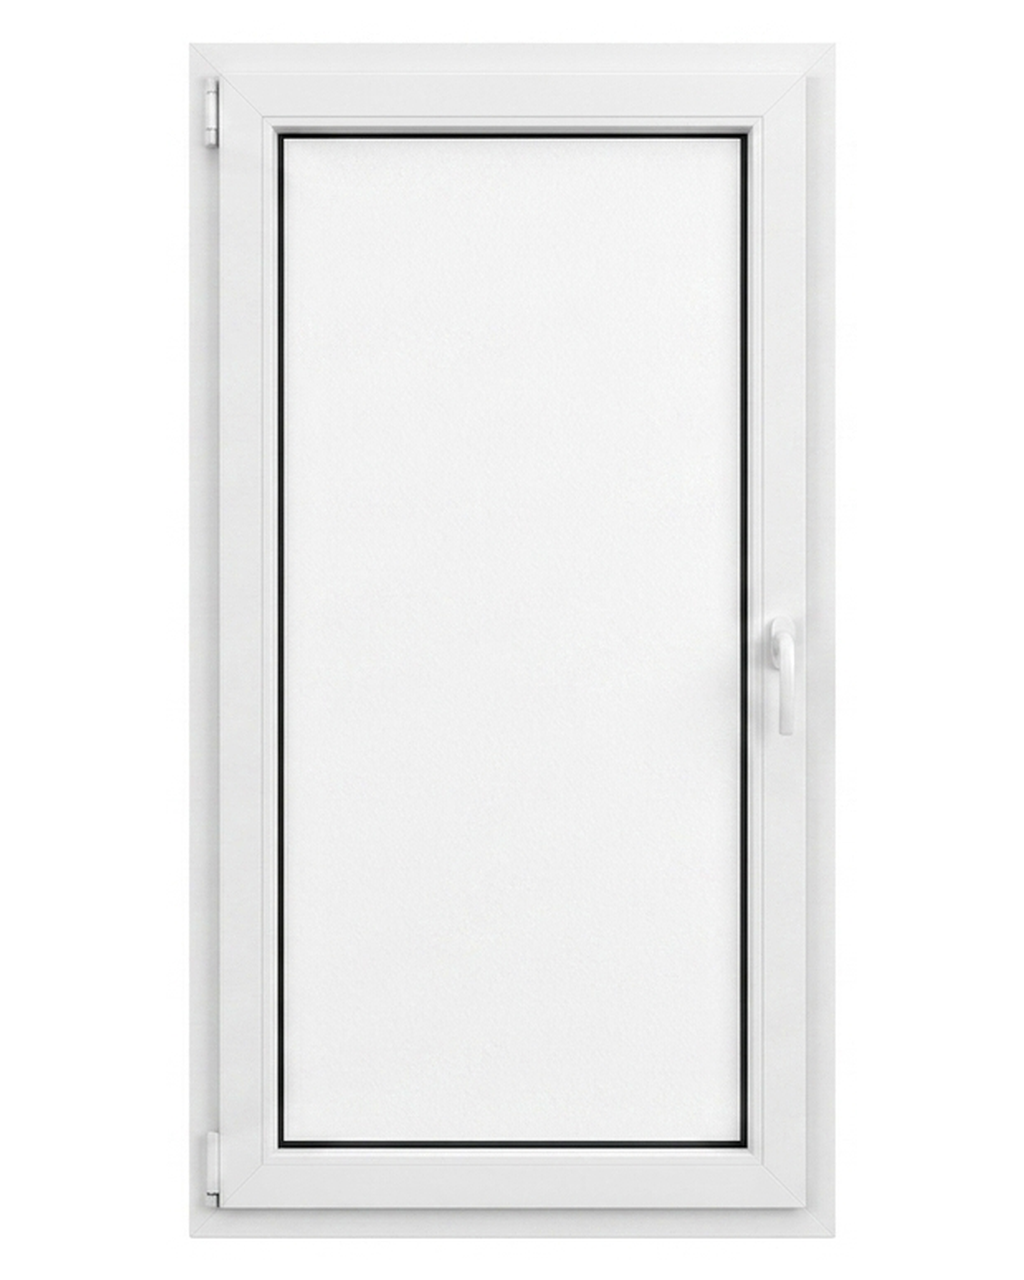
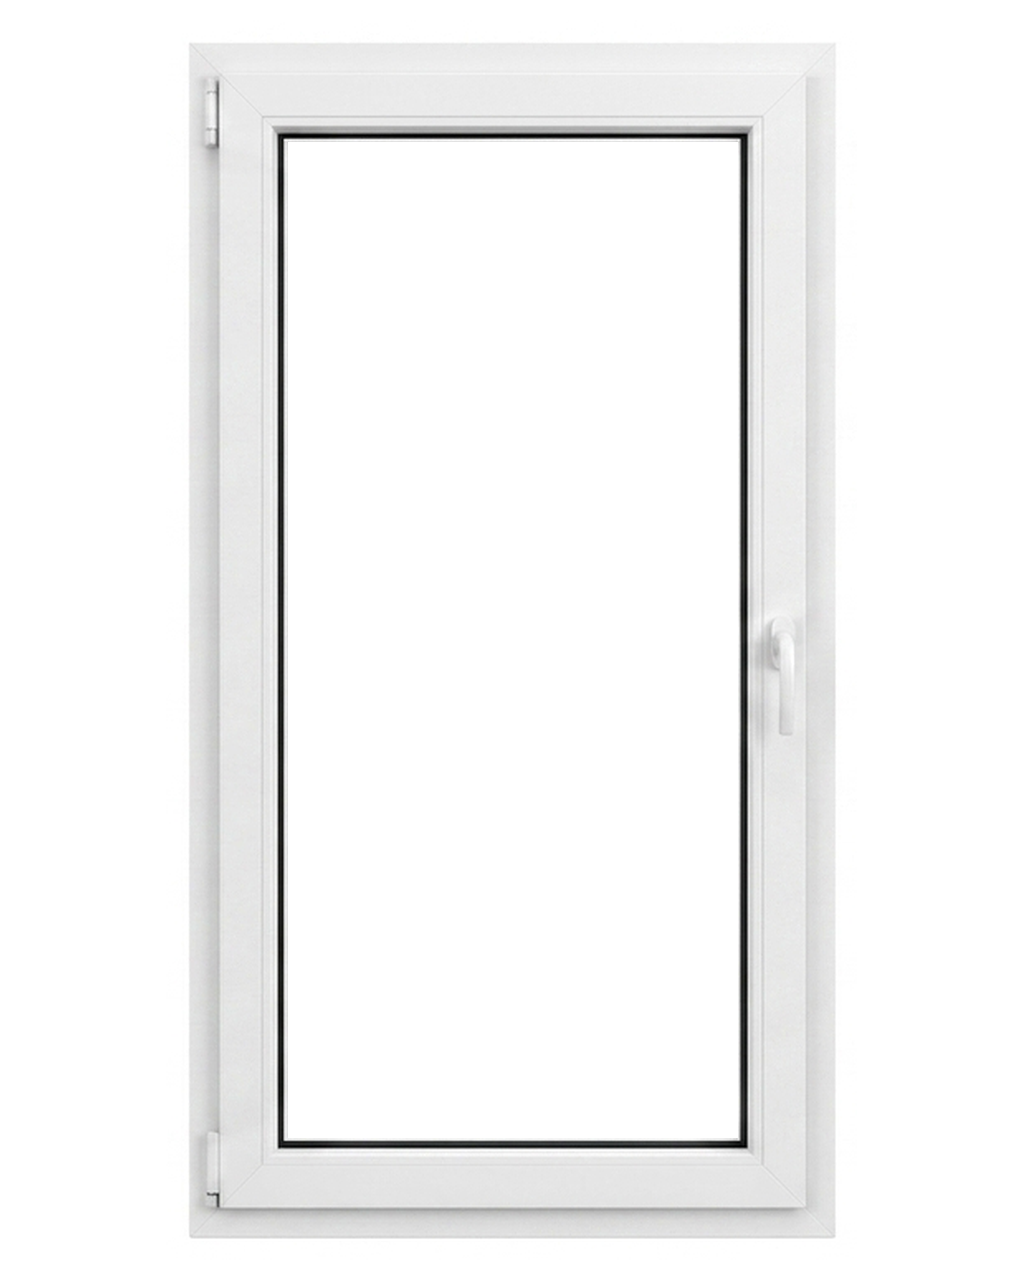
Konfigurator Produktbilder: Glasfarbe von Balkontuer + Schiebetuer auf einheitliches Reinweiss wie Kunststofffenster angeglichen (Glas war grau/kuehl-stichig); Cache-Bust (Kundenwunsch 09.06.2026)

Changed region(s): [[0.6875, 0.5, 0.7188, 0.875], [0.2812, 0.0938, 0.375, 0.125], [0.2812, 0.8125, 0.3125, 0.875]]

diff --git a/konfigurator-new.html b/konfigurator-new.html
@@ -13,9 +13,9 @@
   <meta property="og:type" content="website">
 
   <link rel="preload" as="image" href="img/fenster_standard_v3.png">
-  <link rel="preload" as="image" href="img/balkontuer_standard_v3.png?v=20260510">
+  <link rel="preload" as="image" href="img/balkontuer_standard_v3.png?v=20260609g">
   <link rel="preload" as="image" href="img/haustuer_iglo_energy_montana_weiss.png?v=20260506-5">
-  <link rel="preload" as="image" href="img/hst_standard.png">
+  <link rel="preload" as="image" href="img/hst_standard.png?v=20260609g">
   <link rel="stylesheet" href="css/tokens.css?v=2026-05-23"/>
   <link rel="stylesheet" href="css/components.css?v=2026-05-23"/>
   <link rel="stylesheet" href="css/tailwind.css?v=2026-05-22"/>
@@ -4215,6 +4215,11 @@ html body #sidebar-wrap #kfg-sum-block { display: none !important; }
   #cfg-wizard .hst-feat{list-style:none;margin:8px 0 4px;padding:0;text-align:left;display:inline-block}
   #cfg-wizard .hst-feat li{font-size:11.5px;color:#5a6b7e;font-family:'Manrope',sans-serif;line-height:1.55;padding-left:17px;position:relative}
   #cfg-wizard .hst-feat li::before{content:'✓';position:absolute;left:0;top:0;color:var(--c-primary);font-weight:800;font-size:10.5px}
+  #cfg-wizard .wiz-griff2col{display:flex;gap:28px;align-items:flex-start;max-width:1160px;margin:0 auto}
+  #cfg-wizard .wiz-griff2col .wiz-griffcol{flex:1;min-width:0}
+  #cfg-wizard .wiz-griff2col .wiz-gt{text-align:left;margin-bottom:10px}
+  #cfg-wizard .wiz-griff2col .wiz-cards{justify-content:flex-start}
+  @media(max-width:760px){ #cfg-wizard .wiz-griff2col{flex-direction:column;gap:20px} }
   #cfg-wizard .wiz-card-dis{opacity:.5;cursor:not-allowed}
   /* Foto-Karten (Glas-Motiv): Bild füllt die Box randlos */
   #cfg-wizard .wiz-card .wiz-vis{width:100%;aspect-ratio:1/1;border-radius:10px;overflow:hidden;background:#eef2f8;display:flex;align-items:center;justify-content:center}
@@ -4272,8 +4277,10 @@ html body #sidebar-wrap #kfg-sum-block { display: none !important; }
   #cfg-wizard .wiz-step button:hover{background:#eef3fb}
   #cfg-wizard .wiz-step .wiz-qv{font-size:44px;font-weight:800;color:#14233f;min-width:90px;text-align:center;font-family:'Plus Jakarta Sans',sans-serif}
   #cfg-wizard .wiz-navbar{position:fixed;left:0;right:0;bottom:0;z-index:30;background:#fff;border-top:1px solid rgba(34,94,170,.1);box-shadow:0 -4px 20px rgba(20,40,80,.05)}
-  #cfg-wizard .wiz-nav{display:flex;align-items:center;justify-content:space-between;gap:12px;max-width:1040px;margin:0 auto;width:100%;padding:14px 20px}
-  #cfg-wizard .wiz-nav-right{display:flex;gap:12px;align-items:center;flex-shrink:0}
+  #cfg-wizard .wiz-nav{display:grid;grid-template-columns:1fr auto 1fr;align-items:center;gap:12px;max-width:1040px;margin:0 auto;width:100%;padding:14px 20px}
+  #cfg-wizard .wiz-otherprod{justify-self:start}
+  #cfg-wizard .wiz-nav-right{display:flex;gap:12px;align-items:center;justify-self:center;flex-shrink:0}
+  @media (max-width:640px){ #cfg-wizard .wiz-nav{grid-template-columns:auto 1fr} }
   #cfg-wizard .wiz-back{padding:14px 24px;border-radius:999px;border:1px solid rgba(34,94,170,.25);background:#fff;font-weight:700;cursor:pointer;color:#14233f;font-family:'Plus Jakarta Sans',sans-serif}
   #cfg-wizard .wiz-otherprod{display:inline-flex;align-items:center;gap:6px;padding:14px 18px;border-radius:999px;border:1px solid rgba(34,94,170,.25);background:#fff;font-weight:700;cursor:pointer;color:#225eaa;font-family:'Plus Jakarta Sans',sans-serif;white-space:nowrap}
   #cfg-wizard .wiz-otherprod:hover{background:#eef4ff;border-color:rgba(118,169,250,.5)}
@@ -7152,9 +7159,14 @@ function wizRenderPsk(){ return '<div class="wiz-cards">'+Object.keys(P.pskKamme
 function wizSetPsk(v){ wizSet('pskKammer',v); }
 function wizRenderTuermodell(){ return '<div class="wiz-cards">'+WIZ_DOORS.map(function(d){return '<div class="wiz-card'+(d.key===S.tuerModell?' sel':'')+'" onclick="wizSet(\'tuerModell\',\''+d.key+'\')"><div class="wiz-gbox"><img src="'+d.img+'" alt="'+d.name+'" loading="lazy"></div><div class="wiz-cn">'+d.name+'</div></div>';}).join('')+'</div>'; }
 function wizRenderTuergriff(){
-  let h='<div class="wiz-group"><div class="wiz-gt">Innen (Klinke)</div><div class="wiz-cards">'+Object.keys(P.tuerGriffInnen).map(function(k){const o=P.tuerGriffInnen[k];return '<div class="wiz-card wiz-card-opt'+(k===S.tuerGriffInnen?' sel':'')+'" onclick="wizSet(\'tuerGriffInnen\',\''+k+'\')"><div class="wiz-sym"><img src="'+o.img+'" alt="'+o.name+'" loading="lazy"></div><div class="wiz-cn">'+o.name+'</div></div>';}).join('')+'</div></div>';
-  h+='<div class="wiz-group"><div class="wiz-gt">Außen (Griff)</div><div class="wiz-cards">'+Object.keys(P.tuerGriffAussen).map(function(k){const o=P.tuerGriffAussen[k];return '<div class="wiz-card wiz-card-opt'+(k===S.tuerGriffAussen?' sel':'')+'" onclick="wizSet(\'tuerGriffAussen\',\''+k+'\')"><div class="wiz-sym"><img src="'+o.img+'" alt="'+o.name+'" loading="lazy"></div><div class="wiz-cn">'+o.name+'</div></div>';}).join('')+'</div></div>';
-  return h;
+  // Innen + Außen nebeneinander (zwei Spalten), damit man beide Türgriffe auf einen Blick sieht
+  function griffCards(obj, sel, sk){
+    return Object.keys(obj).map(function(k){const o=obj[k];return '<div class="wiz-card wiz-card-opt'+(k===sel?' sel':'')+'" onclick="wizSet(\''+sk+'\',\''+k+'\')"><div class="wiz-sym"><img src="'+o.img+'" alt="'+o.name+'" loading="lazy"></div><div class="wiz-cn">'+o.name+'</div></div>';}).join('');
+  }
+  return '<div class="wiz-griff2col">'+
+    '<div class="wiz-griffcol"><div class="wiz-gt">Türgriff innen</div><div class="wiz-cards">'+griffCards(P.tuerGriffInnen,S.tuerGriffInnen,'tuerGriffInnen')+'</div></div>'+
+    '<div class="wiz-griffcol"><div class="wiz-gt">Türgriff außen</div><div class="wiz-cards">'+griffCards(P.tuerGriffAussen,S.tuerGriffAussen,'tuerGriffAussen')+'</div></div>'+
+  '</div>';
 }
 function wizRenderSchiebegriff(){
   let h='<div class="wiz-group"><div class="wiz-gt">Innen (Smart Slide)</div><div class="wiz-cards">'+Object.keys(P.hstGriff).map(function(k){const o=P.hstGriff[k];return '<div class="wiz-card wiz-card-opt'+(k===S.hstGriff?' sel':'')+'" onclick="wizSet(\'hstGriff\',\''+k+'\')"><div class="wiz-sym"><img src="'+o.img+'" alt="'+o.name+'" loading="lazy"></div><div class="wiz-cn">'+o.name+'</div></div>';}).join('')+'</div></div>';
@@ -11067,9 +11079,9 @@ function renderCart() {
 // PROD_IMGS bleibt für Code-Rückwärtskompatibilität (nur Innen-Default)
 const PROD_IMGS = {
   kunststoff: 'img/fenster_standard_v3.png',
-  balkontuer: 'img/balkontuer_standard_v3.png?v=20260510',
+  balkontuer: 'img/balkontuer_standard_v3.png?v=20260609g',
   haustuere:  'img/haustuer_iglo_energy_montana_innen_weiss.png?v=20260506-5', // Kunden-Update 06.05.2026: Iglo Energy Montana Innenansicht spiegelverkehrt — Klinke LINKS, 3 Scharniere RECHTS (DIN-Konsistenz mit Außen Stoßgriff rechts → Projektdoku Regel 5). Google-Flow generiert via Image-to-Image-Mirror, Pipeline. ?v= = Cache-Buster.
-  hst:        'img/hst_standard.png',
+  hst:        'img/hst_standard.png?v=20260609g',
 };
 
 // ════════════════════════════════════════════════════════════════
@@ -11115,7 +11127,7 @@ const PROD_IMGS_VIEW = {
     },
   },
   balkontuer: {
-    innen:  { '1-fluegel': 'img/balkontuer_standard_v3.png?v=20260510', '2-fluegel': 'img/balkontuer_2fl_v4.png' },
+    innen:  { '1-fluegel': 'img/balkontuer_standard_v3.png?v=20260609g', '2-fluegel': 'img/balkontuer_2fl_v4.png' },
     aussen: { '1-fluegel': 'img/balkontuer_aussen_v3.png?v=20260510', '2-fluegel': 'img/balkontuer_2fl_aussen_v4.png' },
   },
   haustuere: {
@@ -11128,7 +11140,7 @@ const PROD_IMGS_VIEW = {
     aussen: { '1-fluegel': 'img/haustuer_iglo_energy_montana_weiss.png?v=20260506-5' },
   },
   hst: {
-    innen:  { '1-fluegel': 'img/hst_standard.png' },
+    innen:  { '1-fluegel': 'img/hst_standard.png?v=20260609g' },
     aussen: { '1-fluegel': 'img/hst_aussen.png' },
   },
 };
@@ -11678,7 +11690,7 @@ const BILDER = {
   },
   balkontuer: {
     aussen: {1:'img/balkontuer_aussen_v3.png', 2:'img/fenster-2fluegel-aussen.png', 3:'img/fenster-aussen-3fluegel.png', 4:'img/fenster-aussen-4fluegel.png'},
-    innen:  {1:'img/balkontuer_standard_v3.png', 2:'img/fenster-2fluegel-innen.png',  3:'img/fenster-innen-3fluegel.png',  4:'img/fenster-innen-4fluegel.png'}
+    innen:  {1:'img/balkontuer_standard_v3.png?v=20260609g', 2:'img/fenster-2fluegel-innen.png',  3:'img/fenster-innen-3fluegel.png',  4:'img/fenster-innen-4fluegel.png'}
   }
 };
 

diff --git a/konfigurator.html b/konfigurator.html
@@ -13,9 +13,9 @@
   <meta property="og:type" content="website">
 
   <link rel="preload" as="image" href="img/fenster_standard_v3.png">
-  <link rel="preload" as="image" href="img/balkontuer_standard_v3.png?v=20260510">
+  <link rel="preload" as="image" href="img/balkontuer_standard_v3.png?v=20260609g">
   <link rel="preload" as="image" href="img/haustuer_iglo_energy_montana_weiss.png?v=20260506-5">
-  <link rel="preload" as="image" href="img/hst_standard.png">
+  <link rel="preload" as="image" href="img/hst_standard.png?v=20260609g">
   <link rel="stylesheet" href="css/tokens.css?v=2026-05-23"/>
   <link rel="stylesheet" href="css/components.css?v=2026-05-23"/>
   <link rel="stylesheet" href="css/tailwind.css?v=2026-05-22"/>
@@ -4215,6 +4215,11 @@ html body #sidebar-wrap #kfg-sum-block { display: none !important; }
   #cfg-wizard .hst-feat{list-style:none;margin:8px 0 4px;padding:0;text-align:left;display:inline-block}
   #cfg-wizard .hst-feat li{font-size:11.5px;color:#5a6b7e;font-family:'Manrope',sans-serif;line-height:1.55;padding-left:17px;position:relative}
   #cfg-wizard .hst-feat li::before{content:'✓';position:absolute;left:0;top:0;color:var(--c-primary);font-weight:800;font-size:10.5px}
+  #cfg-wizard .wiz-griff2col{display:flex;gap:28px;align-items:flex-start;max-width:1160px;margin:0 auto}
+  #cfg-wizard .wiz-griff2col .wiz-griffcol{flex:1;min-width:0}
+  #cfg-wizard .wiz-griff2col .wiz-gt{text-align:left;margin-bottom:10px}
+  #cfg-wizard .wiz-griff2col .wiz-cards{justify-content:flex-start}
+  @media(max-width:760px){ #cfg-wizard .wiz-griff2col{flex-direction:column;gap:20px} }
   #cfg-wizard .wiz-card-dis{opacity:.5;cursor:not-allowed}
   /* Foto-Karten (Glas-Motiv): Bild füllt die Box randlos */
   #cfg-wizard .wiz-card .wiz-vis{width:100%;aspect-ratio:1/1;border-radius:10px;overflow:hidden;background:#eef2f8;display:flex;align-items:center;justify-content:center}
@@ -4272,8 +4277,10 @@ html body #sidebar-wrap #kfg-sum-block { display: none !important; }
   #cfg-wizard .wiz-step button:hover{background:#eef3fb}
   #cfg-wizard .wiz-step .wiz-qv{font-size:44px;font-weight:800;color:#14233f;min-width:90px;text-align:center;font-family:'Plus Jakarta Sans',sans-serif}
   #cfg-wizard .wiz-navbar{position:fixed;left:0;right:0;bottom:0;z-index:30;background:#fff;border-top:1px solid rgba(34,94,170,.1);box-shadow:0 -4px 20px rgba(20,40,80,.05)}
-  #cfg-wizard .wiz-nav{display:flex;align-items:center;justify-content:space-between;gap:12px;max-width:1040px;margin:0 auto;width:100%;padding:14px 20px}
-  #cfg-wizard .wiz-nav-right{display:flex;gap:12px;align-items:center;flex-shrink:0}
+  #cfg-wizard .wiz-nav{display:grid;grid-template-columns:1fr auto 1fr;align-items:center;gap:12px;max-width:1040px;margin:0 auto;width:100%;padding:14px 20px}
+  #cfg-wizard .wiz-otherprod{justify-self:start}
+  #cfg-wizard .wiz-nav-right{display:flex;gap:12px;align-items:center;justify-self:center;flex-shrink:0}
+  @media (max-width:640px){ #cfg-wizard .wiz-nav{grid-template-columns:auto 1fr} }
   #cfg-wizard .wiz-back{padding:14px 24px;border-radius:999px;border:1px solid rgba(34,94,170,.25);background:#fff;font-weight:700;cursor:pointer;color:#14233f;font-family:'Plus Jakarta Sans',sans-serif}
   #cfg-wizard .wiz-otherprod{display:inline-flex;align-items:center;gap:6px;padding:14px 18px;border-radius:999px;border:1px solid rgba(34,94,170,.25);background:#fff;font-weight:700;cursor:pointer;color:#225eaa;font-family:'Plus Jakarta Sans',sans-serif;white-space:nowrap}
   #cfg-wizard .wiz-otherprod:hover{background:#eef4ff;border-color:rgba(118,169,250,.5)}
@@ -7152,9 +7159,14 @@ function wizRenderPsk(){ return '<div class="wiz-cards">'+Object.keys(P.pskKamme
 function wizSetPsk(v){ wizSet('pskKammer',v); }
 function wizRenderTuermodell(){ return '<div class="wiz-cards">'+WIZ_DOORS.map(function(d){return '<div class="wiz-card'+(d.key===S.tuerModell?' sel':'')+'" onclick="wizSet(\'tuerModell\',\''+d.key+'\')"><div class="wiz-gbox"><img src="'+d.img+'" alt="'+d.name+'" loading="lazy"></div><div class="wiz-cn">'+d.name+'</div></div>';}).join('')+'</div>'; }
 function wizRenderTuergriff(){
-  let h='<div class="wiz-group"><div class="wiz-gt">Innen (Klinke)</div><div class="wiz-cards">'+Object.keys(P.tuerGriffInnen).map(function(k){const o=P.tuerGriffInnen[k];return '<div class="wiz-card wiz-card-opt'+(k===S.tuerGriffInnen?' sel':'')+'" onclick="wizSet(\'tuerGriffInnen\',\''+k+'\')"><div class="wiz-sym"><img src="'+o.img+'" alt="'+o.name+'" loading="lazy"></div><div class="wiz-cn">'+o.name+'</div></div>';}).join('')+'</div></div>';
-  h+='<div class="wiz-group"><div class="wiz-gt">Außen (Griff)</div><div class="wiz-cards">'+Object.keys(P.tuerGriffAussen).map(function(k){const o=P.tuerGriffAussen[k];return '<div class="wiz-card wiz-card-opt'+(k===S.tuerGriffAussen?' sel':'')+'" onclick="wizSet(\'tuerGriffAussen\',\''+k+'\')"><div class="wiz-sym"><img src="'+o.img+'" alt="'+o.name+'" loading="lazy"></div><div class="wiz-cn">'+o.name+'</div></div>';}).join('')+'</div></div>';
-  return h;
+  // Innen + Außen nebeneinander (zwei Spalten), damit man beide Türgriffe auf einen Blick sieht
+  function griffCards(obj, sel, sk){
+    return Object.keys(obj).map(function(k){const o=obj[k];return '<div class="wiz-card wiz-card-opt'+(k===sel?' sel':'')+'" onclick="wizSet(\''+sk+'\',\''+k+'\')"><div class="wiz-sym"><img src="'+o.img+'" alt="'+o.name+'" loading="lazy"></div><div class="wiz-cn">'+o.name+'</div></div>';}).join('');
+  }
+  return '<div class="wiz-griff2col">'+
+    '<div class="wiz-griffcol"><div class="wiz-gt">Türgriff innen</div><div class="wiz-cards">'+griffCards(P.tuerGriffInnen,S.tuerGriffInnen,'tuerGriffInnen')+'</div></div>'+
+    '<div class="wiz-griffcol"><div class="wiz-gt">Türgriff außen</div><div class="wiz-cards">'+griffCards(P.tuerGriffAussen,S.tuerGriffAussen,'tuerGriffAussen')+'</div></div>'+
+  '</div>';
 }
 function wizRenderSchiebegriff(){
   let h='<div class="wiz-group"><div class="wiz-gt">Innen (Smart Slide)</div><div class="wiz-cards">'+Object.keys(P.hstGriff).map(function(k){const o=P.hstGriff[k];return '<div class="wiz-card wiz-card-opt'+(k===S.hstGriff?' sel':'')+'" onclick="wizSet(\'hstGriff\',\''+k+'\')"><div class="wiz-sym"><img src="'+o.img+'" alt="'+o.name+'" loading="lazy"></div><div class="wiz-cn">'+o.name+'</div></div>';}).join('')+'</div></div>';
@@ -11067,9 +11079,9 @@ function renderCart() {
 // PROD_IMGS bleibt für Code-Rückwärtskompatibilität (nur Innen-Default)
 const PROD_IMGS = {
   kunststoff: 'img/fenster_standard_v3.png',
-  balkontuer: 'img/balkontuer_standard_v3.png?v=20260510',
+  balkontuer: 'img/balkontuer_standard_v3.png?v=20260609g',
   haustuere:  'img/haustuer_iglo_energy_montana_innen_weiss.png?v=20260506-5', // Kunden-Update 06.05.2026: Iglo Energy Montana Innenansicht spiegelverkehrt — Klinke LINKS, 3 Scharniere RECHTS (DIN-Konsistenz mit Außen Stoßgriff rechts → Projektdoku Regel 5). Google-Flow generiert via Image-to-Image-Mirror, Pipeline. ?v= = Cache-Buster.
-  hst:        'img/hst_standard.png',
+  hst:        'img/hst_standard.png?v=20260609g',
 };
 
 // ════════════════════════════════════════════════════════════════
@@ -11115,7 +11127,7 @@ const PROD_IMGS_VIEW = {
     },
   },
   balkontuer: {
-    innen:  { '1-fluegel': 'img/balkontuer_standard_v3.png?v=20260510', '2-fluegel': 'img/balkontuer_2fl_v4.png' },
+    innen:  { '1-fluegel': 'img/balkontuer_standard_v3.png?v=20260609g', '2-fluegel': 'img/balkontuer_2fl_v4.png' },
     aussen: { '1-fluegel': 'img/balkontuer_aussen_v3.png?v=20260510', '2-fluegel': 'img/balkontuer_2fl_aussen_v4.png' },
   },
   haustuere: {
@@ -11128,7 +11140,7 @@ const PROD_IMGS_VIEW = {
     aussen: { '1-fluegel': 'img/haustuer_iglo_energy_montana_weiss.png?v=20260506-5' },
   },
   hst: {
-    innen:  { '1-fluegel': 'img/hst_standard.png' },
+    innen:  { '1-fluegel': 'img/hst_standard.png?v=20260609g' },
     aussen: { '1-fluegel': 'img/hst_aussen.png' },
   },
 };
@@ -11678,7 +11690,7 @@ const BILDER = {
   },
   balkontuer: {
     aussen: {1:'img/balkontuer_aussen_v3.png', 2:'img/fenster-2fluegel-aussen.png', 3:'img/fenster-aussen-3fluegel.png', 4:'img/fenster-aussen-4fluegel.png'},
-    innen:  {1:'img/balkontuer_standard_v3.png', 2:'img/fenster-2fluegel-innen.png',  3:'img/fenster-innen-3fluegel.png',  4:'img/fenster-innen-4fluegel.png'}
+    innen:  {1:'img/balkontuer_standard_v3.png?v=20260609g', 2:'img/fenster-2fluegel-innen.png',  3:'img/fenster-innen-3fluegel.png',  4:'img/fenster-innen-4fluegel.png'}
   }
 };
 